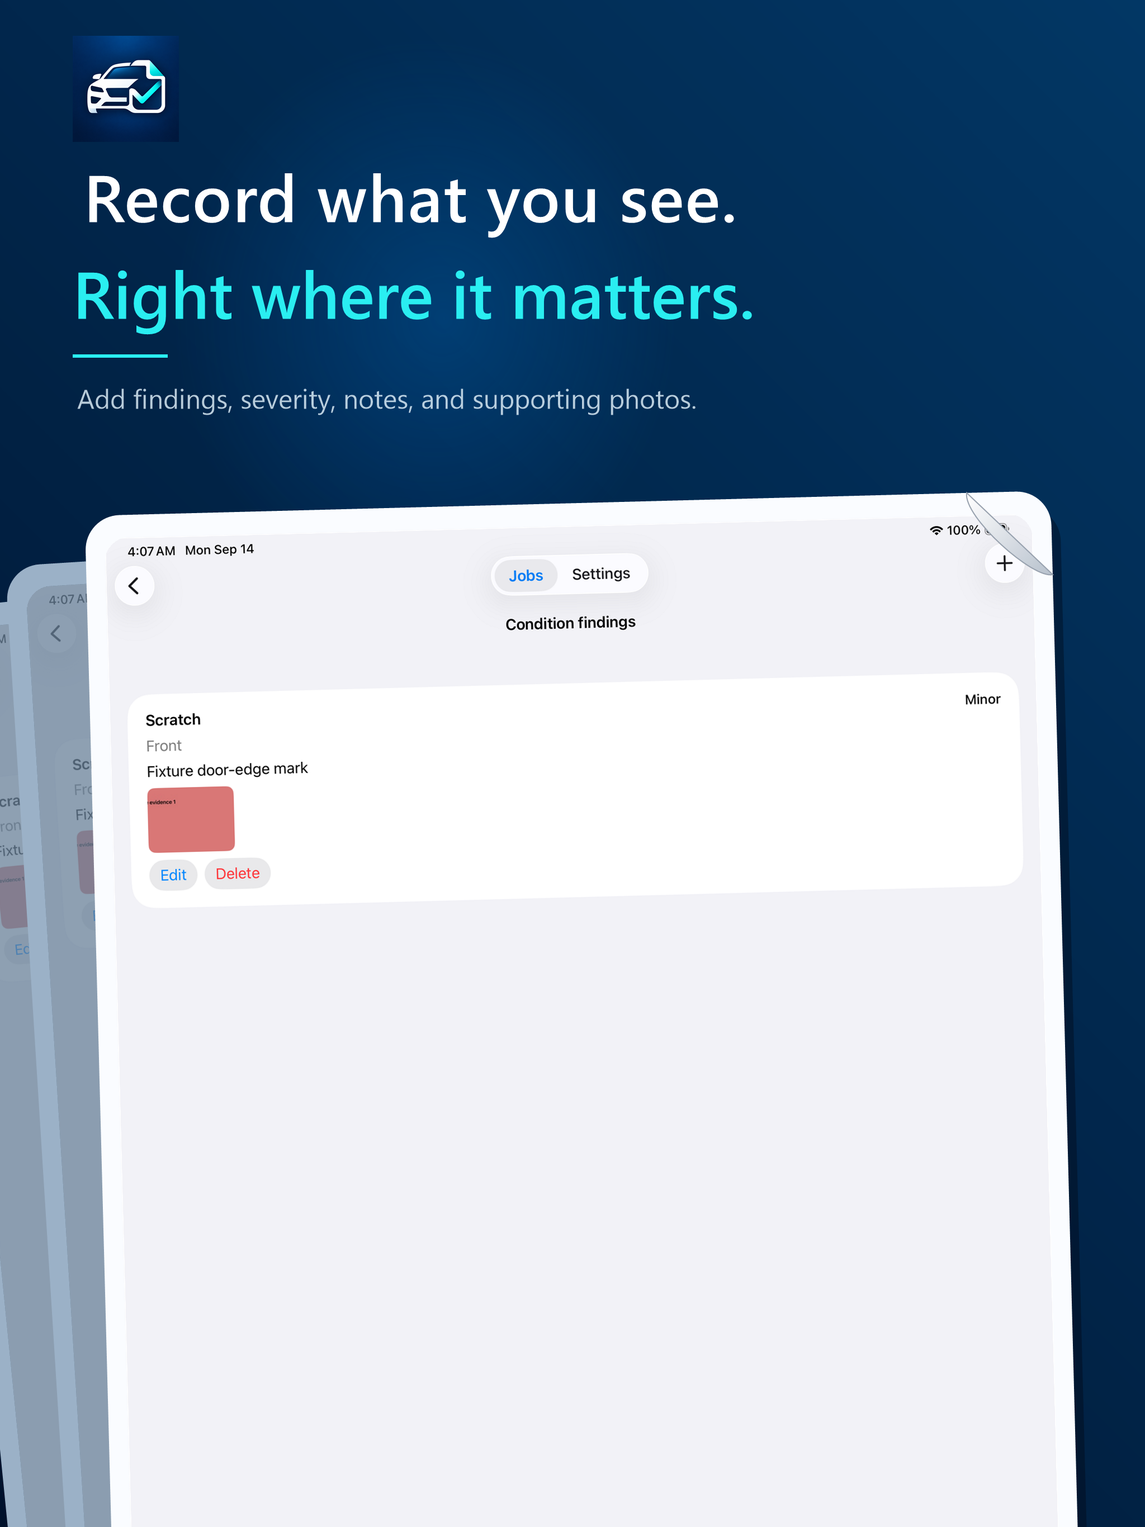
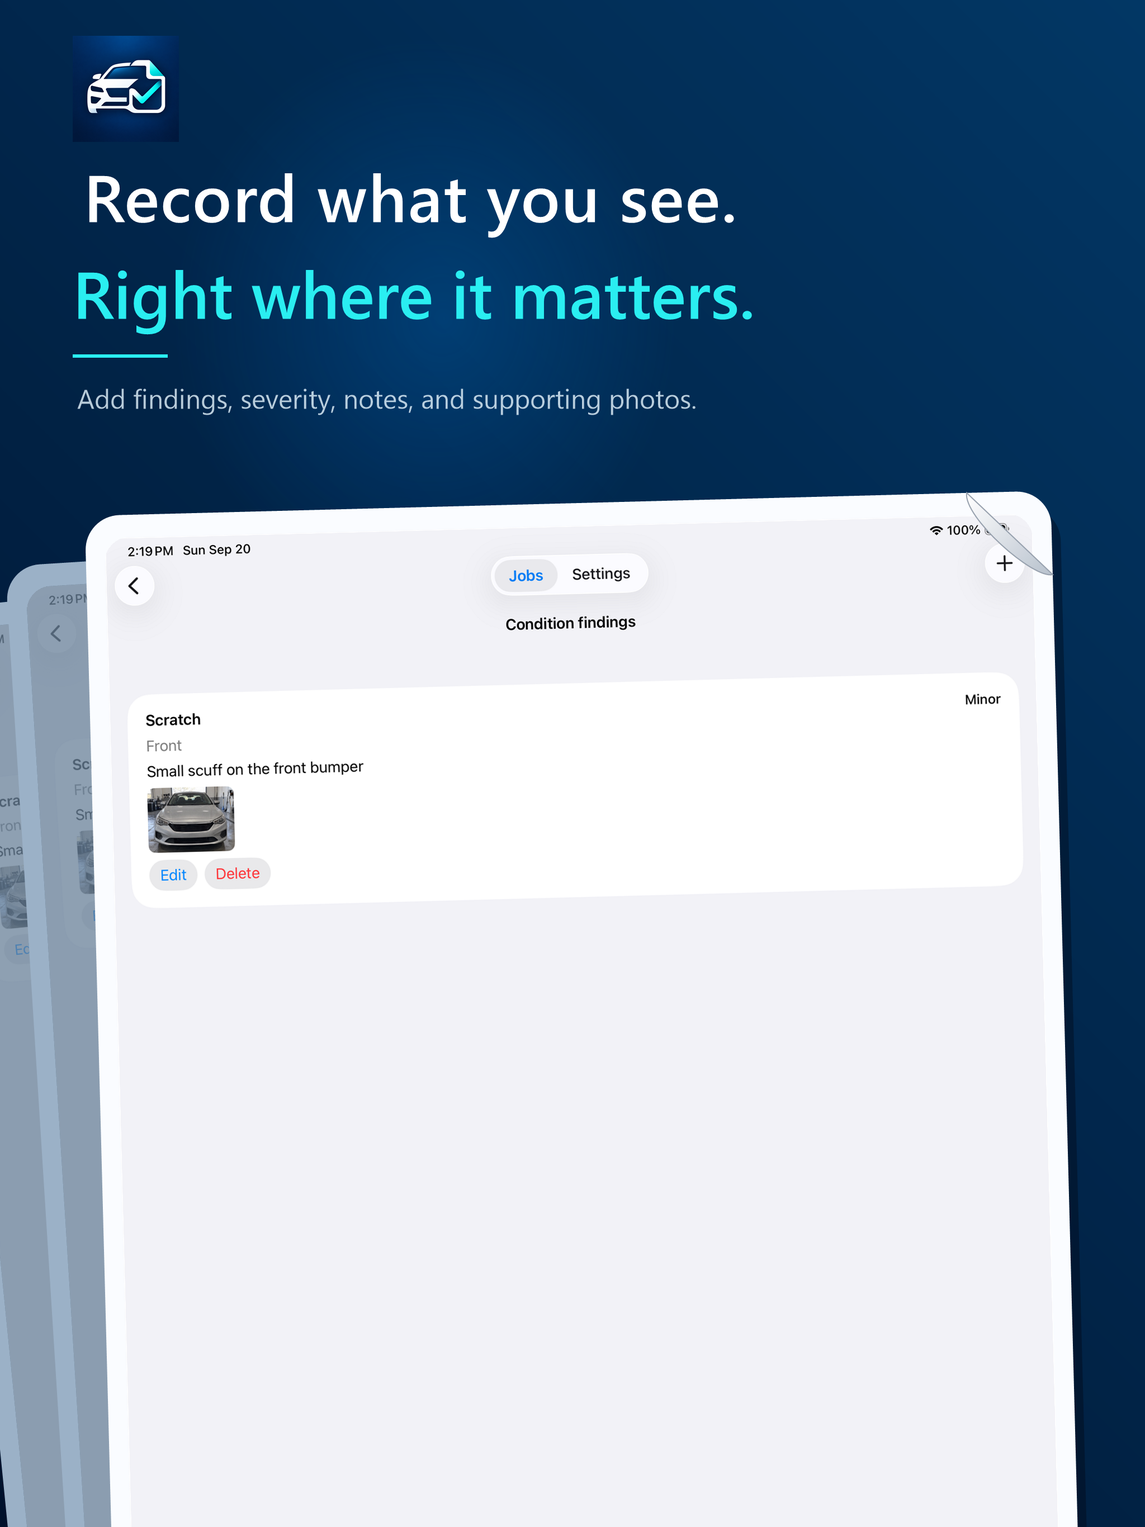
Refresh draft App Store screenshots from green CI

diff --git a/docs/release/acceptance.md b/docs/release/acceptance.md
@@ -1,10 +1,10 @@
 # V1 acceptance and evidence
 
-Last updated: 2026-09-20
+Last updated: 2026-09-21
 
 ## Release decision
 
-**Automated merged-main baseline passed on rerun; not yet App Store release-ready.** CI `34983689543`, attempt 2, built main commit `499313b`, passed 149/0 unit tests and 13/0 UI tests on each selected iPhone and iPad simulator, and uploaded test attachments. Attempt 1 of the same commit had one iPhone navigation timeout while opening the sealed report; its failure hierarchy showed the app still on the job page after the synthesized tap. The current branch adds a bounded retry for that test path and requires fresh CI before its status can be assessed. Saving a Files export, physical offline/relaunch behavior, final screenshot creative approval, name clearance, signed-archive validation, App Store Connect business setup, TestFlight, and App Review remain open. The 12 draft store frames still derive from earlier green CI `34803310219`, not the merged-main run; see `app-store-creative-audit-2026-09-16.md`.
+**Current candidate branch passed automated checks; not yet App Store release-ready.** CI [`35514766784`](https://github.com/aiden609906-sketch/DetailHandoff/actions/runs/35514766784) built `b1d27eb`, passed 149/0 unit tests and 13/0 UI tests on each selected iPhone and iPad simulator, verified screenshot fixture photos are absent from the Release build, and uploaded attachments. The 12 current draft store frames derive from that run and were visually reviewed; see `app-store-creative-audit-2026-09-21.md`. The last merged-main baseline remains CI `34983689543`, attempt 2, at `499313b`; candidate branch success is not merged-main evidence. Saving a Files export, physical offline/relaunch behavior, final screenshot creative approval, name clearance, signed-archive validation, App Store Connect business setup, TestFlight, and App Review remain open.
 
 Legend: **PASS** means the named behavior actually ran successfully in the cited run. **SOURCE** means the statement is supported by source inspection but not by the manual or external observation still named in that row. **MANUAL** is an external or physical check that automation cannot establish.
 
@@ -34,6 +34,9 @@ Legend: **PASS** means the named behavior actually ran successfully in the cited
 | [CI 34970645204](https://github.com/aiden609906-sketch/DetailHandoff/actions/runs/34970645204) | `a375036` | **PASS on isolated candidate branch:** app build; 149/0 unit tests; 13/0 iPhone UI tests; 13/0 iPad UI tests. Destinations: iPhone 17 Pro and iPad Pro 13-inch (M5), iOS 26.5. Test attachments exported and uploaded. The backup exporter test passed on both device classes using only the app-owned accessible presentation state. |
 | [CI 34983689543, attempt 1](https://github.com/aiden609906-sketch/DetailHandoff/actions/runs/34983689543/attempts/1) | `499313b` | **Mixed on merged `main`:** build, 149/0 unit tests, and 13/0 iPad UI tests passed. iPhone had 1/13 UI failure: a synthesized tap on `workflow.sealedReport` did not navigate; the failure hierarchy still showed the finalized job screen and the same visible button. This is retained as intermittent test evidence. |
 | [CI 34983689543, attempt 2](https://github.com/aiden609906-sketch/DetailHandoff/actions/runs/34983689543/attempts/2) | `499313b` | **PASS on merged `main`:** build, 149/0 unit tests, 13/0 iPhone UI tests, 13/0 iPad UI tests, and test attachment upload. The unchanged-code retry does not erase attempt 1's intermittent navigation failure. |
+| [CI 35510349822](https://github.com/aiden609906-sketch/DetailHandoff/actions/runs/35510349822) | `a92703c` | **Mixed on candidate branch:** Debug/Release builds and 149 unit tests passed; iPad accessibility navigation test did not leave Jobs after a synthesized static-text tap. UI step timed out while finalizing results, and the artifact upload encountered a transient `.xcresult/Staging` file. This is failure evidence, not an accepted screenshot source. |
+| [CI 35512749619](https://github.com/aiden609906-sketch/DetailHandoff/actions/runs/35512749619) | `a6e2aa4` | **PASS on candidate branch:** changed the test to tap the whole job-row button and excluded transient staging files from artifact upload. Build, both UI suites, attachment export, and artifact upload completed. Its screenshots were reviewed but superseded by the corrected-copy run below. |
+| [CI 35514766784](https://github.com/aiden609906-sketch/DetailHandoff/actions/runs/35514766784) | `b1d27eb` | **PASS on candidate branch:** simulator and Release builds, Release fixture exclusion, 149/0 unit tests, 13/0 iPhone UI tests, 13/0 iPad UI tests, attachment export, and upload. This is the exact source of the 12 current draft store PNGs; it is not a signed or physical-device release check. |
 
 The stable 40-photo PDF outputs and rendered QA pages remain outside product source under `.superpowers/sdd/2026-09-04-reports/ci-33848520274/` and `.superpowers/sdd/2026-09-04-reports/pdf-qa/`. They must not be relocated into the app bundle or deleted during release preparation.
 
@@ -120,11 +123,11 @@ CI `34560087867`, attempt 2, exported 30 attachments for each device class acros
 
 CI `34983689543`, attempt 2, exported iPhone and iPad test attachments after all 13 UI tests passed on each device class. The backup exporter assertion remains limited to the app-owned presentation boundary; these attachments have not been promoted to App Store marketing artwork.
 
-The prior 12 App Store marketing PNGs from CI `34740399131` were reviewed on 2026-09-14 and exposed a pre-release support placeholder and imprecise cloud wording in iPad frame 06. The current 12 PNGs derive from green CI `34803310219`; both frame-06 outputs were inspected at native resolution, and all 12 outputs passed opaque RGB/dimension checks. The factual frame-06 blocker is removed, but synthetic fixture imagery, iPad whitespace, and final creative approval remain open. The current six-step audit is in `app-store-creative-audit-2026-09-16.md`.
+The current 12 App Store marketing PNGs derive from green CI `35514766784` and use fictional realistic vehicle photos rather than the former solid-color blocks. All 12 outputs were opened for visual review and passed opaque 24-bit RGB/dimension checks. The support placeholder and imprecise cloud wording remain absent. Final approval remains open because iPad frames 01/03/05 have excessive whitespace, iPhone frame 04 does not show the signature, and the finding photo is too small to independently establish the stated scuff. See `app-store-creative-audit-2026-09-21.md`.
 
 ## Pending release gates
 
-- Preserve the merged-main baseline from CI `34983689543`, attempt 2, when making release changes. The app build, 149 unit tests, and both 13-test UI suites completed for `499313b`; attempt 1 remains evidence of an intermittent iPhone sealed-report navigation tap. The current branch's bounded retry needs its own green CI. The 12 marketing screenshots come from earlier CI `34803310219`, not this test run, and final creative approval is still separate.
+- Preserve the merged-main baseline from CI `34983689543`, attempt 2, when making release changes. Candidate branch CI `35514766784` is green, but still needs integration and a merged-main run. The earlier intermittent iPhone sealed-report tap and candidate iPad navigation failure remain historical evidence; neither should be erased by a green rerun. Final screenshot creative approval is separate from CI.
 - Verify the privacy manifest in the signed release archive and validate its required-reason declaration against actual runtime behavior. The built simulator resource test is green.
 - Run physical iPhone and iPad tests for camera capture, photo permission states, cancellation, force-quit/interruption, airplane mode, rotation/multitasking, large Dynamic Type/VoiceOver, low storage, 40-photo performance, PDF viewers/share destinations, Files/iCloud/external backup restore, deletion, and cleanup. Use `physical-device-checklist.zh-CN.md` to record device and build evidence.
 - Establish Apple Developer membership, account owner, team, bundle identifier, certificates, profiles, signing, and release archive validation.

diff --git a/docs/release/app-store.md b/docs/release/app-store.md
@@ -1,10 +1,10 @@
 # App Store handoff
 
-Last updated: 2026-09-20
+Last updated: 2026-09-21
 
 ## Submission status
 
-**Do not submit this revision yet.** Merged-main commit `499313b` passed CI `34983689543`, attempt 2: app build, 149/0 unit tests, and 13/0 UI tests on each selected iPhone and iPad simulator. Attempt 1 had one intermittent iPhone sealed-report navigation tap that is being hardened on the current branch; fresh CI is required for that change. The 12 App Store screenshots still come from earlier green CI `34803310219` and remain draft artwork. The icon master and public support/privacy pages exist, but final screenshot creative approval, physical-device checks, legal name clearance, signed-archive validation, account-owned metadata, Paid Apps Agreement, tax/banking setup, TestFlight, and App Review remain open. No publication is claimed.
+**Do not submit this revision yet.** Candidate commit `b1d27eb` passed CI [`35514766784`](https://github.com/aiden609906-sketch/DetailHandoff/actions/runs/35514766784): app and Release builds, 149/0 unit tests, 13/0 UI tests on each selected iPhone and iPad simulator, screenshot-fixture exclusion, and attachment upload. The 12 App Store screenshots now come from that run, but remain draft artwork after visual audit. The last merged-main baseline is CI `34983689543`, attempt 2. Final screenshot creative approval, physical-device checks, legal name clearance, signed-archive validation, account-owned metadata, Paid Apps Agreement, tax/banking setup, TestFlight, and App Review remain open. No publication is claimed.
 
 ## Commercial configuration
 
@@ -43,12 +43,12 @@ Validate the camera permission prompt on physical iPhone and iPad for first deni
 ## Required creative assets
 
 - `Assets.xcassets/AppIcon.appiconset/AppIcon-1024.png` is the selected opaque 1024×1024 master and is referenced by `Contents.json`. Dimensions, RGB opacity, JSON syntax, and visual safe margins were checked locally; Xcode asset compilation and signed-archive validation remain required.
-- Draft English screenshot sets are in `docs/release/app-store-assets/iphone` (1290×2796) and `docs/release/app-store-assets/ipad` (2048×2732). They use the selected dark-navy Product Design direction and exact simulator captures from green CI `34803310219`, without AI-rewritten app UI.
-- The six-frame story covers report creation, guided Before capture, findings, acknowledgment, sealed revision history, and local-data/privacy controls. The current Product Design review is in `app-store-creative-audit-2026-09-16.md`: retain the chosen visual direction, but recapture with realistic fictional fixture data before upload. Wide iPad whitespace and thumbnail readability also need a final creative pass.
+- Draft English screenshot sets are in `docs/release/app-store-assets/iphone` (1290×2796) and `docs/release/app-store-assets/ipad` (2048×2732). They use the selected dark-navy Product Design direction and exact simulator captures from green CI `35514766784`, with realistic fictional vehicle photos but no AI-rewritten app UI. Release builds exclude the screenshot-only photo catalog.
+- The six-frame story covers report creation, guided Before capture, findings, acknowledgment, sealed revision history, and local-data/privacy controls. The current Product Design review is in `app-store-creative-audit-2026-09-21.md`: retain the chosen visual direction; improve iPad frames 01/03/05, show the signature on iPhone frame 04, and align the finding image with its claim before upload.
 - Review every image at native resolution for cropping, Dynamic Type overflow, private information, placeholder data, misleading status, and device chrome.
 - Optional promotional art, preview video, and localization are not required by this handoff and have not been produced.
 
-The 27 PNGs from CI `33936741128` remain failure diagnostics, not store assets. CI `34740399131` is the superseded screenshot source; CI `34803310219` is the source of the current store set. Both current frame-06 outputs were inspected at native resolution and all 12 current PNGs passed dimension/opaque-RGB checks. The previous iPad frame-06 factual blocker is resolved; no final creative approval is claimed.
+The 27 PNGs from CI `33936741128` remain failure diagnostics, not store assets. CI `34803310219` is the superseded screenshot source; CI `35514766784` is the source of the current store set. All 12 current PNGs were visually inspected and passed dimension/opaque-RGB checks. The previous iPad frame-06 factual blocker is resolved; no final creative approval is claimed.
 
 ## Pre-membership checks (2026-09-14)
 
@@ -60,7 +60,7 @@ The 27 PNGs from CI `33936741128` remain failure diagnostics, not store assets. 
 
 ## Metadata and account checklist
 
-- [x] Obtain a green merged-main macOS build, all 149 unit tests, and all 13 UI tests on both iPhone and iPad (CI `34983689543`, attempt 2, commit `499313b`). A new CI pass is still required for this branch's UI-test hardening. Files saving/cancellation remains a physical-device check.
+- [x] Obtain a green merged-main macOS baseline (CI `34983689543`, attempt 2, commit `499313b`) and a green candidate run (CI `35514766784`, commit `b1d27eb`), each with 149 unit tests and 13 UI tests on both iPhone and iPad. A merged-main run of this candidate is still required after integration. Files saving/cancellation remains a physical-device check.
 - [ ] Verify the archived `PrivacyInfo.xcprivacy` declares DiskSpace reason `E174.1` for the actual capture/import storage check, without tracking or collected-data claims beyond the implementation. The built simulator resource test has passed.
 - [x] Pass the Phase 1 on-disk migration fixture without losing baseline records (included in the 149-test run).
 - [ ] Complete physical iPhone and iPad camera, permissions, interruption, offline, accessibility, performance, Files/share, backup/restore, deletion, and low-storage checks using `physical-device-checklist.zh-CN.md`.
@@ -70,7 +70,7 @@ The 27 PNGs from CI `33936741128` remain failure diagnostics, not store assets. 
 - [x] Publish the privacy policy URL: `https://detailhandoff-support.aiden609906.chatgpt.site/privacy/`.
 - [ ] Complete category, age rating, copyright, seller/developer name, SKU, version/release notes, territories, paid-app price, App Store privacy responses, accessibility information, and export-compliance answers.
 - [x] Prepare length-validated U.S. English product-page copy and truthful App Review notes for the current binary.
-- [ ] Validate the selected 1024px icon and all asset warnings in the release archive; obtain final creative approval for the recaptured iPhone/iPad screenshots, then upload approved assets. The frame-06 factual correction is complete, but synthetic imagery and iPad whitespace remain creative review points.
+- [ ] Validate the selected 1024px icon and all asset warnings in the release archive; obtain final creative approval for the recaptured iPhone/iPad screenshots, then upload approved assets. Synthetic demo imagery is disclosed and isolated from Release builds, but iPad whitespace, iPhone acknowledgment visibility, and the finding-photo/text match remain creative review points.
 - [ ] Add truthful reviewer notes describing local data, camera/photo selection, synthetic review data, backup/restore, and any non-obvious navigation. No demo account is required by current source because there is no login.
 - [ ] Accept paid-app and other business agreements; complete tax and banking information.
 - [ ] Recruit TestFlight users, distribute a signed build, capture feedback, fix release blockers, and retest. No TestFlight activity is claimed.

diff --git a/docs/release/app-store-creative-audit-2026-09-21.md b/docs/release/app-store-creative-audit-2026-09-21.md
@@ -1,0 +1,30 @@
+# App Store creative audit — 2026-09-21
+
+Scope: the six iPhone and six iPad draft marketing PNGs in `app-store-assets/`, regenerated from successful simulator CI [`35514766784`](https://github.com/aiden609906-sketch/DetailHandoff/actions/runs/35514766784) at commit `b1d27eb`. Every output was opened and inspected in this audit. This is a visual/content review, not an App Review, legal, or accessibility approval.
+
+## Decision
+
+**Keep the selected dark-navy direction and the new fictional vehicle imagery; do not upload this draft set yet.** The earlier solid-color evidence blocks and fixture-style vehicle name are gone, the headline spacing and single-photo grammar are corrected, and the privacy claim remains qualified. The iPad story still loses impact to empty app space, while the iPhone acknowledgment frame does not show the recorded signature. The finding text calls out a small scuff that cannot be verified from its tiny full-car thumbnail.
+
+## Six-step story
+
+| Step | Screen pair | Health | Evidence and next change |
+|---|---|---|---|
+| 1 | Professional record | Needs polish | Report actions are legible on iPhone; iPad places a small action group above a large empty white area. Use a denser, truthful report state for the iPad frame. |
+| 2 | Guided capture | Needs polish | A realistic fictional front photo replaces the color block, and `1 photo` is grammatical. One small photo beside several empty capture rows weakly supports “every angle”; capture a richer but accurate state. |
+| 3 | Findings | Needs revision | Severity, area, note, and supporting photo are visible. The whole-car thumbnail does not visibly substantiate the stated scuff; use a matching close-up or change the fictional finding to match the photo. The iPad frame is mostly empty. |
+| 4 | Acknowledgment | Needs revision | The iPad frame shows service, vehicle photos, customer name, timestamp, and signature. The iPhone frame stops above the signature, so it does not show the core action promised by the headline. Recapture the phone after scrolling to the acknowledgment. |
+| 5 | Seal and revise | Needs polish | Version, checksum, Preview, Share, and Create revision are visible. On iPad, the version card is small above a broad empty area; use a more focused truthful state. |
+| 6 | Local control | Acceptable with pre-upload recheck | The iPad Settings capture shows the system-backup caveat and support email. The iPhone capture crops those below the fold, while the marketing subtitle correctly limits “no cloud” to developer service. |
+
+## Strengths and risks
+
+- The selected icon, navy/white/cyan treatment, tilted-report composition, and six-part sequence remain consistent.
+- Source app UI comes from the actual simulator run; generated photos are fixture data, not AI-redrawn controls or real customer records. The photo catalog is excluded from the Release build.
+- Each pair is an opaque 24-bit RGB PNG at its intended 1290×2796 or 2048×2732 size.
+- At store-thumbnail size, iPad interface labels in frames 01, 03, and 05 will be hard to read. Screenshot inspection cannot prove VoiceOver behavior, contrast after storefront compression, or physical-device Dynamic Type/reflow.
+- “Scratch · Minor” describes fictional test data; the associated photo is too small to verify a real mark. Do not imply these images prove a documented real-world service outcome.
+
+## Evidence limits
+
+The audit did not test App Store compression, signed builds, Apple review acceptance, VoiceOver, keyboard/focus order, rotation, split view, or physical camera behavior. No real customer/vehicle data or real Before/After service result was used. The 12 images are useful design drafts and CI-backed UI evidence, but final screenshot creative approval remains open.

diff --git a/docs/release/app-store-assets/README.md b/docs/release/app-store-assets/README.md
@@ -1,6 +1,6 @@
 # App Store screenshot set
 
-These English-first draft screenshots implement the selected dark-navy Product Design direction with exact UI captures from green CI run `34803310219` (code commit `5d901de`). All 12 frames were regenerated from that run's iPhone and iPad attachment manifests on 2026-09-14. The previous set came from CI `34740399131` and is superseded.
+These English-first draft screenshots implement the selected dark-navy Product Design direction with exact UI captures from green CI run [`35514766784`](https://github.com/aiden609906-sketch/DetailHandoff/actions/runs/35514766784) (code commit `b1d27eb`). All 12 frames were regenerated from that run's iPhone and iPad attachment manifests on 2026-09-21. The previous set came from CI `34803310219` and is superseded. Screenshot-only vehicle photos are fictional and excluded from Release builds.
 
 ## Upload order
 
@@ -18,7 +18,7 @@ These English-first draft screenshots implement the selected dark-navy Product D
 
 Both sizes are accepted by the current App Store Connect screenshot specification. Recheck Apple's specification immediately before upload because supported device classes can change.
 
-The refreshed iPad frame 06 visibly includes the system-backup caveat, `DetailHandoff`, and the real support email; the old support placeholder is absent. The iPhone frame 06 crops below the first Privacy row, so its app capture does not show the backup caveat or email; its marketing subtitle explicitly limits the no-cloud statement to a developer cloud service. Final creative approval remains separate from this factual correction.
+The refreshed iPad frame 06 visibly includes the system-backup caveat, `DetailHandoff`, and the real support email; the old support placeholder is absent. The iPhone frame 06 crops below the first Privacy row, so its app capture does not show the backup caveat or email; its marketing subtitle explicitly limits the no-cloud statement to a developer cloud service. All 12 frames were visually inspected and passed 24-bit RGB/dimension checks. They remain **drafts**, not approved uploads: iPad frames 01, 03, and 05 have substantial empty app space; iPhone frame 04 does not show the acknowledgment signature; the small finding photo does not independently prove the fictional scuff described in text. See `../app-store-creative-audit-2026-09-21.md`.
 
 ## Regeneration
 

diff --git a/docs/release/screenshot-fixture-photos.md b/docs/release/screenshot-fixture-photos.md
@@ -17,4 +17,4 @@ Shared prompt: *Natural, candid smartphone condition-documentation photo of the 
 | `ScreenshotRearSeats` | Rear bench from passenger-side door | Rear seats |
 | `ScreenshotCargo` | Open trunk and cargo area | Trunk or cargo area |
 
-The same fictional image set is used for Before and After in the automated fixture. It demonstrates the app's workflow, **not** a documented real-world detailing outcome. App Store review notes already disclose synthetic screenshot data. Before upload, visually inspect the newly rendered iPhone and iPad screenshots at full size and thumbnail scale; the existing 12 PNGs remain the previous draft until explicitly regenerated.
+The same fictional image set is used for Before and After in the automated fixture. It demonstrates the app's workflow, **not** a documented real-world detailing outcome. App Store review notes already disclose synthetic screenshot data. The 12 draft PNGs were regenerated from CI `35514766784` and visually inspected on 2026-09-21. They are not final upload assets; see `app-store-creative-audit-2026-09-21.md` for remaining content and legibility issues.
